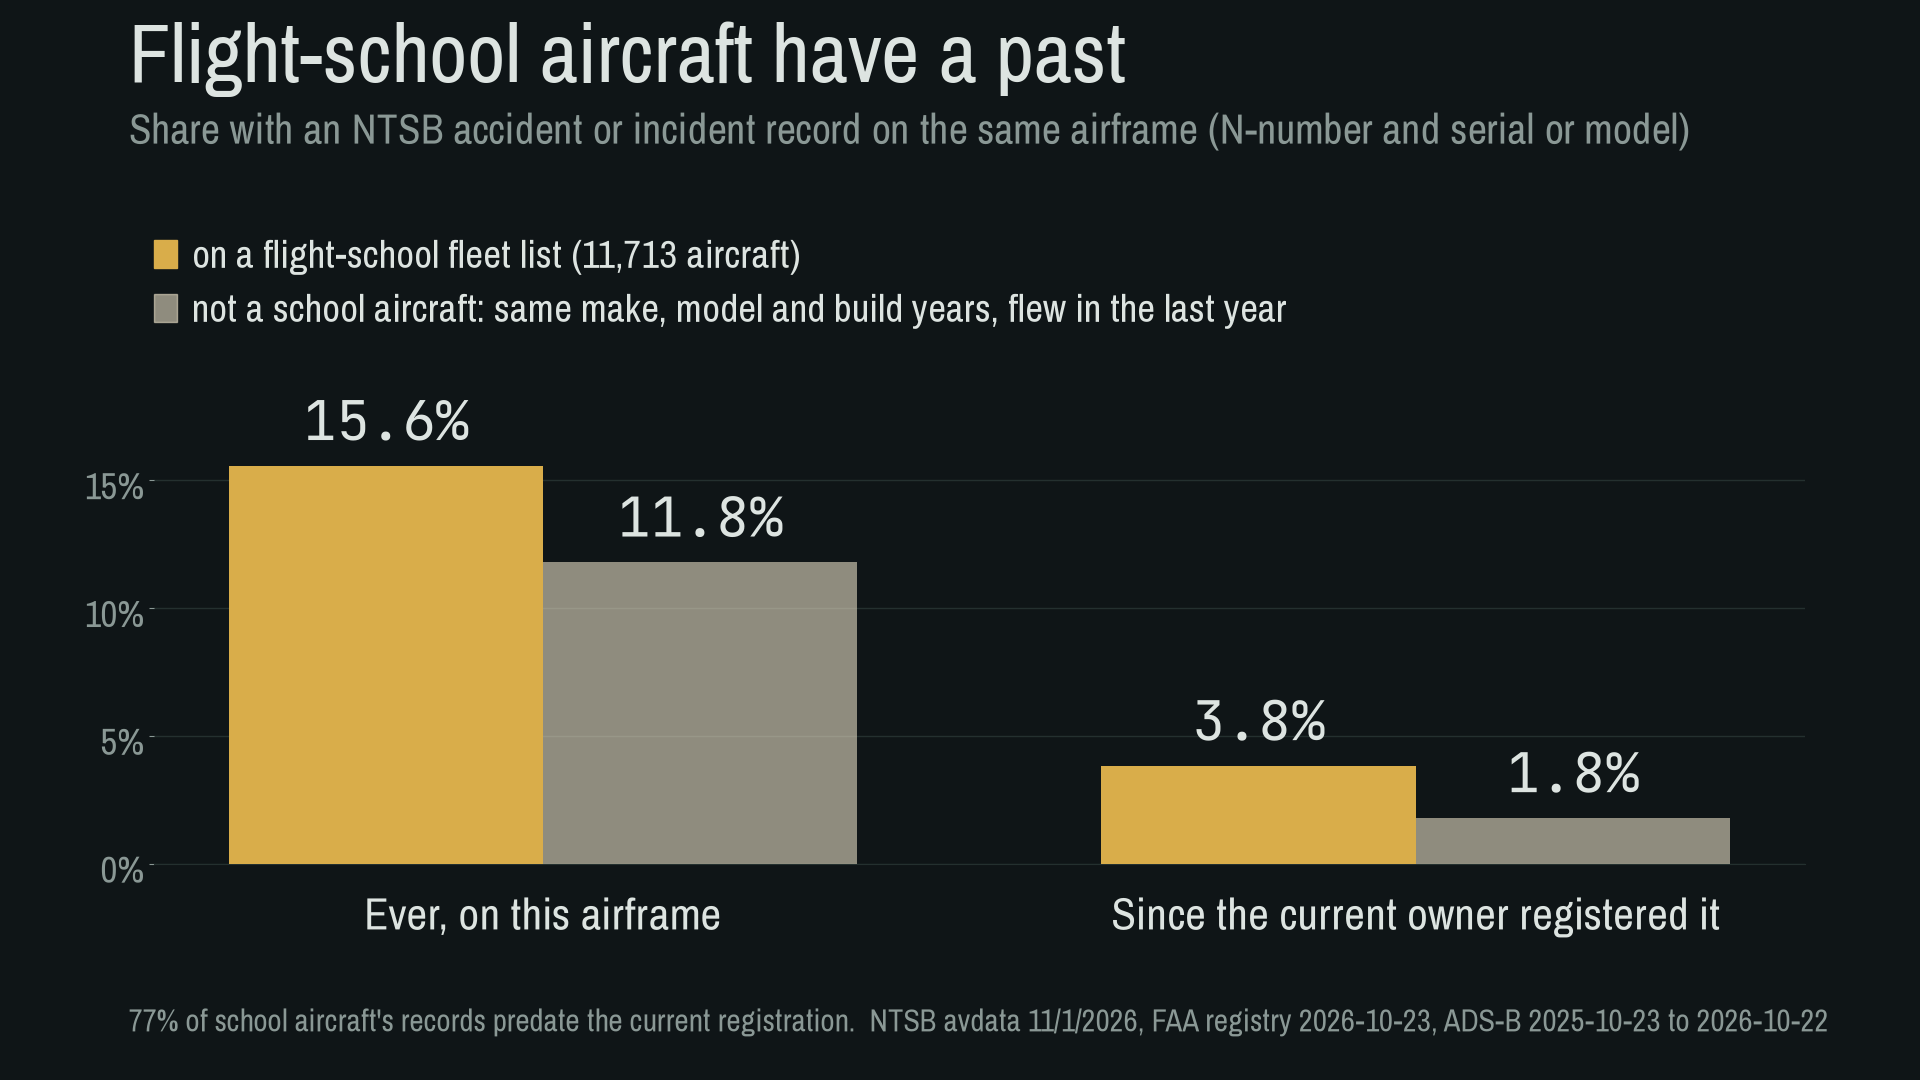
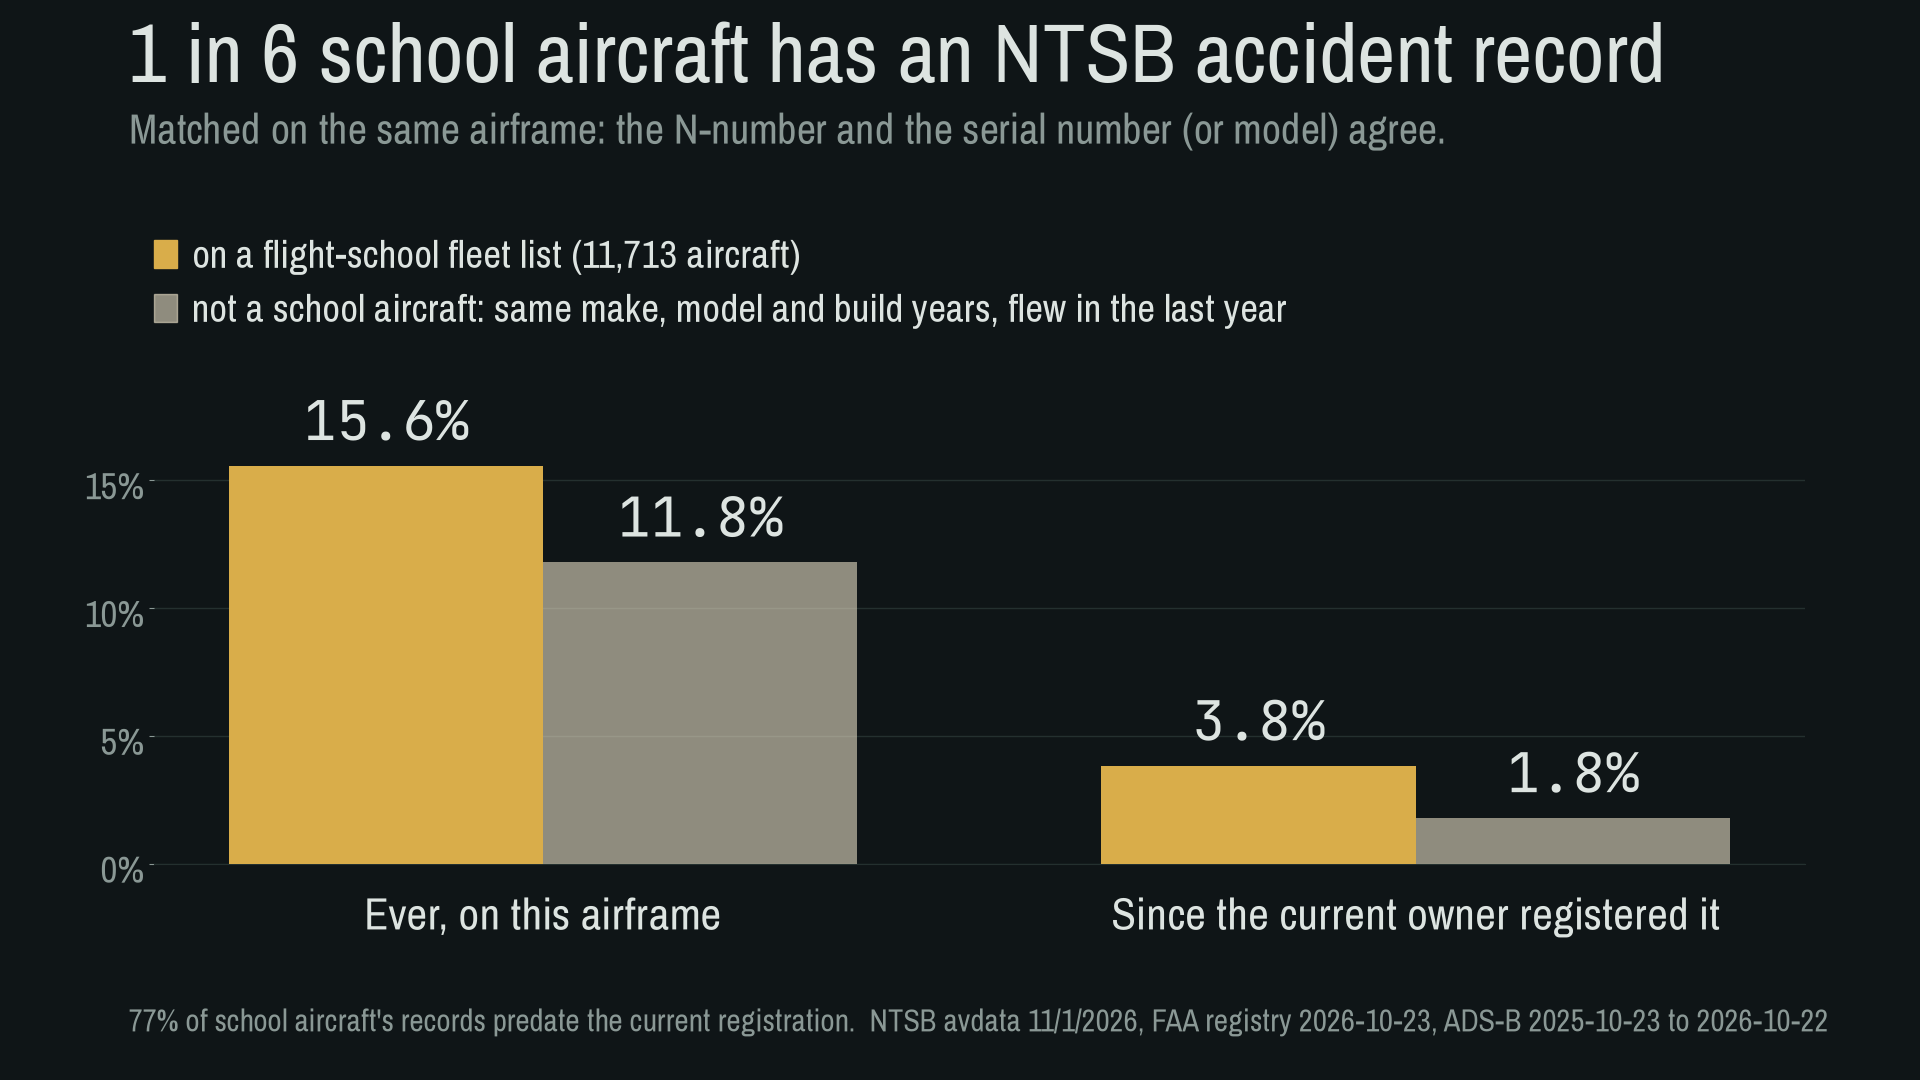
66: Yelp Places search aimed at training airports (300 calls/day trial), phone-first matching; 54 --dump-sites; plainer chart titles
Day 1: 290 calls, 269 of 1,019 circles, 2,297 open US businesses in Yelp's flight-instruction
category; 1,271 ours (988 by phone), 1,026 unmatched pending website discovery and classification.

Claude-Session: https://claude.ai/code/session_01A8mvWpF5gVSGpSaSnLtBgz

Changed region(s): [[0.0625, 0.0, 0.875, 0.1528]]

diff --git a/research/FlightSchoolMapping/scripts/66_yelp_places.py b/research/FlightSchoolMapping/scripts/66_yelp_places.py
@@ -1,0 +1,231 @@
+"""Find flight-instruction businesses through Yelp's Places API and compare them with our school list.
+
+Yelp's Business Search takes a point and a radius (max 40 km) and a category; `flightinstruction` is
+Yelp's "Flight Instruction" category (Specialty Schools). The trial key allows 300 calls a day
+(RateLimit-DailyLimit header, checked 2026-11-05), so instead of tiling the whole country this
+targets where training happens: the airports of every school in flight_line.json (listed and
+inferred) plus the places Google labelled as flight training, covered greedily by 38 km circles,
+densest first. Each run spends at most --max-calls (default 290) and resumes where it stopped.
+
+Yelp returns name, phone, address and coordinates, but not the business's own website. Matching
+is by phone (strongest; we have phones from schools' own pages), then name and address with the
+state-list matcher plus 59's strict confirmation. Yelp content other than business IDs and Yelp
+page URLs stays in the git-ignored data dir; details for anything we add come from its own site.
+
+  python scripts/66_yelp_places.py plan            # build the circle list
+  python scripts/66_yelp_places.py search          # spend today's calls
+  python scripts/66_yelp_places.py match           # compare with flight_line
+"""
+import argparse, collections, csv, importlib.util, json, math, os, re, subprocess, sys, time
+import urllib.parse, urllib.request
+from pathlib import Path
+
+HERE = Path(__file__).resolve().parent
+ROOT = HERE.parent
+REPO = ROOT.parent.parent
+OUT = ROOT / "data" / "research-2026-11" / "yelp"
+API = "https://api.yelp.com/v3/businesses/search"
+R_KM = 38.0  # circle radius used for planning; the API call asks for 40 km
+CAT = "flightinstruction"
+
+
+def key():
+    k = os.environ.get("YELP_API_KEY")
+    if k:
+        return k
+    common = subprocess.run(["git", "rev-parse", "--path-format=absolute", "--git-common-dir"],
+                            capture_output=True, text=True, cwd=HERE).stdout.strip()
+    for line in (Path(common).parent / ".env").read_text().splitlines():
+        if line.startswith("YELP_API_KEY="):
+            return line.split("=", 1)[1].strip().strip('"')
+    sys.exit("YELP_API_KEY not set (environment or the main checkout's .env)")
+
+
+def km(a, b):
+    la = math.radians((a[0] + b[0]) / 2)
+    return math.hypot((a[0] - b[0]) * 111.2, (a[1] - b[1]) * 111.2 * math.cos(la))
+
+
+def airport_coords():
+    pos = {}
+    with open(ROOT / "data" / "ourairports_airports.csv", encoding="utf-8") as f:
+        for r in csv.DictReader(f):
+            if r["iso_country"] != "US":
+                continue
+            ll = (float(r["latitude_deg"]), float(r["longitude_deg"]))
+            for c in (r["ident"], r["gps_code"], r["local_code"]):
+                if c:
+                    pos.setdefault(c.upper(), ll)
+                    if len(c) == 3:
+                        pos.setdefault("K" + c.upper(), ll)
+    return pos
+
+
+def plan(a):
+    """Training points: school airports (listed + inferred) and Google flight-training places;
+    greedy cover with R_KM circles centred on training points, most points first."""
+    OUT.mkdir(parents=True, exist_ok=True)
+    pos = airport_coords()
+    pts = []
+    for s in json.loads((ROOT / "output" / "flight_line.json").read_text()):
+        ids = [l.get("airport_id") for l in s.get("locations") or []] + \
+              [x["airport_id"] for x in s.get("inferred_locations") or []]
+        for i in ids:
+            if i and i.upper() in pos:
+                pts.append(pos[i.upper()])
+    gdet = ROOT / "data" / "research-2026-11" / "google" / "details.json"
+    if gdet.exists():  # Google working data, used only to decide where to look (purged by 2026-12-03)
+        spec = importlib.util.spec_from_file_location("g", HERE / "59_google_places.py")
+        g = importlib.util.module_from_spec(spec)
+        spec.loader.exec_module(g)
+        for d in json.loads(gdet.read_text()).values():
+            if g.is_school(d):
+                pts.append((d["location"]["latitude"], d["location"]["longitude"]))
+    pts = [(round(la, 3), round(lo, 3)) for la, lo in pts]
+    weight = collections.Counter(pts)
+    uncovered = dict(weight)
+    circles = []
+    cand = list(weight)
+    # bucket candidates on a coarse grid to keep the greedy step fast
+    grid = collections.defaultdict(list)
+    for p in cand:
+        grid[(int(p[0] * 2), int(p[1] * 2))].append(p)
+
+    def near(c):
+        gx, gy = int(c[0] * 2), int(c[1] * 2)
+        for dx in (-1, 0, 1):
+            for dy in (-2, -1, 0, 1, 2):
+                for p in grid.get((gx + dx, gy + dy), []):
+                    if p in uncovered and km(c, p) <= R_KM:
+                        yield p
+    gain = {c: sum(uncovered[p] for p in near(c)) for c in cand}
+    while uncovered:
+        c = max(gain, key=gain.get)
+        covered = list(near(c))
+        if not covered:
+            gain.pop(c)
+            continue
+        circles.append({"lat": c[0], "lon": c[1], "points": sum(uncovered[p] for p in covered)})
+        for p in covered:
+            uncovered.pop(p, None)
+        for p in list(gain):
+            if km(c, p) <= 2 * R_KM:
+                gain[p] = sum(uncovered[q] for q in near(p))
+    (OUT / "circles.json").write_text(json.dumps(circles))
+    print(f"plan: {sum(weight.values()):,} training points at {len(weight):,} places -> {len(circles):,} circles "
+          f"(first 300 cover {sum(c['points'] for c in circles[:300]):,} points, "
+          f"first 900 {sum(c['points'] for c in circles[:900]):,})")
+
+
+def search(a):
+    circles = json.loads((OUT / "circles.json").read_text())
+    cache_p = OUT / "search_cache.json"
+    cache = json.loads(cache_p.read_text()) if cache_p.exists() else {}
+    k, calls = key(), 0
+    for i, c in enumerate(circles):
+        ck = f"{c['lat']},{c['lon']}"
+        if ck in cache:
+            continue
+        found, offset, total = [], 0, None
+        while True:
+            if calls >= a.max_calls:
+                break
+            q = urllib.parse.urlencode({"categories": CAT, "latitude": c["lat"], "longitude": c["lon"],
+                                        "radius": 40000, "limit": 50, "offset": offset})
+            req = urllib.request.Request(f"{API}?{q}", headers={"Authorization": "Bearer " + k})
+            try:
+                with urllib.request.urlopen(req, timeout=30) as r:
+                    d = json.load(r)
+                    left = r.headers.get("RateLimit-Remaining")
+            except urllib.error.HTTPError as e:
+                body = e.read().decode("utf-8", "ignore")[:200]
+                if e.code == 429:
+                    print(f"search: daily limit reached after {calls} calls ({body})")
+                    cache_p.write_text(json.dumps(cache))
+                    return
+                raise SystemExit(f"HTTP {e.code}: {body}")
+            calls += 1
+            total = d.get("total", 0)
+            found += d.get("businesses", [])
+            offset += 50
+            if offset >= min(total, 240):
+                break
+            time.sleep(0.3)
+        if calls >= a.max_calls and (total is None or offset < min(total or 0, 240)):
+            break
+        cache[ck] = {"total": total, "businesses": found}
+        if i % 25 == 0:
+            cache_p.write_text(json.dumps(cache))
+            print(f"  circle {i + 1}/{len(circles)}, {calls} calls, Yelp says {left} left today", flush=True)
+        time.sleep(0.3)
+    cache_p.write_text(json.dumps(cache))
+    biz = {b["id"]: b for v in cache.values() for b in v["businesses"]}
+    print(f"search: {calls} calls this run; {len(cache):,} of {len(circles):,} circles done; "
+          f"{len(biz):,} distinct businesses so far")
+
+
+def digits(p):
+    d = re.sub(r"\D", "", p or "")
+    return d[-10:] if len(d) >= 10 else ""
+
+
+def match(a):
+    cache = json.loads((OUT / "search_cache.json").read_text())
+    biz = {b["id"]: b for v in cache.values() for b in v["businesses"] if not b.get("is_closed")}
+    fl = json.loads((ROOT / "output" / "flight_line.json").read_text())
+    by_phone = {}
+    for s in fl:
+        for p in ((s.get("public_contact") or {}).get("phone", {}).get("value"), (s.get("contact") or {}).get("phone")):
+            if digits(p):
+                by_phone.setdefault(digits(p), s)
+    rows, phone_hits = [], {}
+    for i, b in biz.items():
+        loc = b.get("location") or {}
+        if loc.get("country") not in (None, "", "US"):
+            continue
+        hit = by_phone.get(digits(b.get("phone")))
+        if hit:
+            phone_hits[i] = hit
+        rows.append({"source": "c_yelp", "name": b["name"], "city": loc.get("city", ""), "state": loc.get("state", ""),
+                     "website": "", "address": ", ".join(x for x in loc.get("display_address") or [] if x),
+                     "yelp_id": i, "yelp_url": b.get("url", "").split("?")[0], "phone": b.get("phone", ""),
+                     "categories": "|".join(c["alias"] for c in b.get("categories") or [])})
+    path = OUT / "c_yelp.csv"
+    with open(path, "w", newline="") as f:
+        w = csv.DictWriter(f, fieldnames=list(rows[0].keys()))
+        w.writeheader()
+        w.writerows(rows)
+    ap = f"{ROOT / 'output' / 'airports.csv'},{ROOT / 'data' / 'ourairports_airports.csv'}"
+    p = subprocess.run([sys.executable, "-I", str(HERE / "probes" / "match_external_school_lists.py"),
+                        str(ROOT / "output" / "flight_line.json"), ap, str(OUT), str(path)],
+                       capture_output=True, text=True, check=True)
+    spec = importlib.util.spec_from_file_location("g", HERE / "59_google_places.py")
+    g = importlib.util.module_from_spec(spec)
+    spec.loader.exec_module(g)
+    with open(OUT / "c_yelp_matched.csv") as f:
+        m = list(csv.DictReader(f))
+    for r in m:
+        if r["yelp_id"] in phone_hits:
+            s = phone_hits[r["yelp_id"]]
+            r["match_type"], r["school_name"], r["school_domain"], r["verdict"] = "phone", s.get("name", ""), s.get("domain", ""), "ours"
+        else:
+            r["verdict"] = "ours" if g.confirmed_match(r) else "new"
+    with open(OUT / "c_yelp_matched.csv", "w", newline="") as f:
+        w = csv.DictWriter(f, fieldnames=list(m[0].keys()))
+        w.writeheader()
+        w.writerows(m)
+    v = collections.Counter(r["verdict"] for r in m)
+    print(f"match: {len(m):,} open US businesses; ours {v['ours']:,} (phone {len(phone_hits):,}), new {v['new']:,}; "
+          f"matcher: {p.stdout.strip().splitlines()[-1]}")
+
+
+def main():
+    ap = argparse.ArgumentParser()
+    ap.add_argument("step", choices=["plan", "search", "match"])
+    ap.add_argument("--max-calls", type=int, default=290, help="calls to spend this run (trial: 300 a day)")
+    a = ap.parse_args()
+    {"plan": plan, "search": search, "match": match}[a.step](a)
+
+
+if __name__ == "__main__":
+    main()

diff --git a/research/FlightSchoolMapping/scripts/64_slide_charts.py b/research/FlightSchoolMapping/scripts/64_slide_charts.py
@@ -122,8 +122,8 @@ def yearbuilt_make(a, fl, out):
     cs = res["share_built_2010_on"]["school"]
     cf = res["share_built_2010_on"]["flew"]
 
-    fig = B.frame("The industry nearly stopped building small planes",
-                  "So schools fly 1970s airplanes. Of the four-seaters built since 2010, half are Cirrus.")
+    fig = B.frame("Small-plane production collapsed after 1979",
+                  "So most training planes date from the 1970s. Of four-seaters built since 2010 that fly, half are Cirrus.")
     x0, w = 0.075, 0.68
     axes = [fig.add_axes([x0, 0.605, w, 0.175]), fig.add_axes([x0, 0.365, w, 0.17]), fig.add_axes([x0, 0.125, w, 0.17])]
     years = list(range(1945, 2027))
@@ -318,7 +318,7 @@ def wetrate_map(a, fl, out):
 
     k = math.cos(math.radians(38))
     lo_m, hi_m = mt_ok[cheap[0]], mt_ok[dear[-1]]
-    fig = B.frame("Where you live barely changes the price",
+    fig = B.frame("Median 172 rental rate by state and metro",
                   f"Cessna 172 with fuel, median posted hourly rate by state ({mn}+ schools) and metro")
     ax = fig.add_axes([0.015, 0.10, 0.725, 0.72])
     for rec, geom in states:
@@ -385,8 +385,8 @@ def blocked(a, out):
     rows = ["SiteGround", "Cloudflare", "WordPress.com", "Other hosts and firewalls", "Moved or for sale", "Unreachable now"]
     shown = {"Moved or for sale": "Domain sold or renamed", "Unreachable now": "Unreachable now"}
     both, ua = "#c98500", "#3987e5"  # validated pair (dark surface); never next to red
-    fig = B.frame("Most schools didn't lock us out. Their platforms did.",
-                  f"The {total} school sites that served our crawler in March and refused it in November, by who answered")
+    fig = B.frame("Two hosting companies account for most of the blocking",
+                  f"{total} school sites let our crawler in during March and refused it in November. This is who answered.")
     ax = fig.add_axes([0.255, 0.25, 0.45, 0.56])
     for i, name in enumerate(rows):
         y = len(rows) - 1 - i
@@ -449,9 +449,9 @@ def short_metro(name):
 def spread(res, by_metro, ranked, bay, out):
     """Alternative slide: every school's rate in each metro with 10+ schools, so the spread
     inside a metro can be compared with the spread between metros."""
-    fig = B.frame("Pick the school, not the city",
-                  "Cessna 172 rental with fuel, one dot per school, metros with at least "
-                  f"{res['min_schools']} schools posting a rate")
+    fig = B.frame("172 prices vary more by school than by city",
+                  "Each dot is one school's posted hourly rate with fuel. Only metros with at least "
+                  f"{res['min_schools']} schools posting a rate.")
     ax = fig.add_axes([0.20, 0.12, 0.74, 0.70])
     import random
     rnd = random.Random(7)

diff --git a/research/FlightSchoolMapping/scripts/54_march_vs_november.py b/research/FlightSchoolMapping/scripts/54_march_vs_november.py
@@ -376,6 +376,7 @@ def main():
     ap.add_argument("--nov-runs", required=True, type=Path)
     ap.add_argument("--model", default="claude-haiku-5-5")
     ap.add_argument("--md", type=Path, default=DEFAULT_MD)
+    ap.add_argument("--dump-sites", type=Path, help="also write per-domain site outcomes (JSON) here")
     a = ap.parse_args()
 
     need = [a.march_out / f for f in ("fleet_crawl_index.json", "_aopa_extract_index.json", "fleet_browser_index.json",
@@ -506,6 +507,10 @@ def main():
     newly_defunct = sorted(d for d in both_domains if "defunct" in types(nov, d) and "defunct" not in types(mar, d))
     R["sites"]["newly_defunct"] = len(newly_defunct)
     R["sites"]["newly_defunct_examples"] = newly_defunct[:12]
+    if a.dump_sites:  # per-domain outcomes, for joins such as turnover (fleet still flying?)
+        a.dump_sites.write_text(json.dumps({
+            "alive_in_march": alive_march, "died": died, "redirected": redirected, "newly_defunct": newly_defunct,
+            "newly_blocked": [d for d in blocked_now if honest.get(d) == "ok"]}, indent=1))
 
     # Fleets, per school, over the passes the school has in both months.
     fleet = {"schools": 0, "schools_with_tails": 0, "unchanged": 0, "changed": 0, "added": 0, "removed": 0,

diff --git a/research/FlightSchoolMapping/scripts/63_ntsb_history.py b/research/FlightSchoolMapping/scripts/63_ntsb_history.py
@@ -910,8 +910,8 @@ def chart(a):
     era = s["era"]
     before = era.get("before current registration", 0)
     tot = sum(era.values())
-    fig = bd.frame("Flight-school aircraft have a past",
-                   "Share with an NTSB accident or incident record on the same airframe (N-number and serial or model)")
+    fig = bd.frame("1 in 6 school aircraft has an NTSB accident record",
+                   "Matched on the same airframe: the N-number and the serial number (or model) agree.")
     # legend as text, top left, out of the bars' way
     from matplotlib.patches import Rectangle
     fig.add_artist(Rectangle((0.08, 0.752), 0.012, 0.026, color=bd.AMBER, transform=fig.transFigure))
